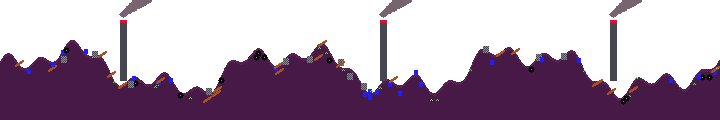
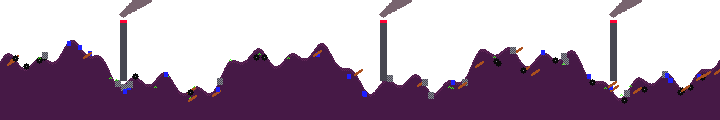
fix: ролик победы ведёт на кладбище (как по миру игры), вокруг помойка до горизонта

diff --git a/tools/gen_victory.py b/tools/gen_victory.py
@@ -74,11 +74,48 @@ def near():
     return a
 
 
+def road():
+    """Дорога от зрителя к кладбищу на горизонте (неподвижный слой поверх помойки)."""
+    c = Canvas(480, 130)
+    for y in range(130):
+        k = y / 129.0                       # 0 - горизонт, 1 - у ног
+        half = int(8 + k * 70)
+        x0, x1 = 240 - half, 240 + half
+        c.a[y, x0:x1] = (*DMUD, 255)
+        c.a[y, x0:x1][(np.arange(x1 - x0) + y) % 3 == 0] = (*MUD, 255)
+        if y % 12 < 6: c.a[y, 239:241] = (*YELLOW, 200)          # стёртая разметка
+        c.a[y, max(x0 - 1, 0)] = (*BLACK, 255); c.a[y, min(x1, 479)] = (*BLACK, 255)
+    for _ in range(40):                                          # мусор на обочине и лужи
+        y = int(R.integers(10, 128)); k = y / 129.0; half = int(8 + k * 70)
+        x = 240 + int(R.choice([-1, 1])) * int(half * R.uniform(0.3, 0.9))
+        c.ell(x, y, max(1, int(k * 4)), max(1, int(k * 2)), (60, 100, 160) if R.random() < 0.4 else BROWN)
+    return c.a
+
+
+def yard():
+    """Кладбище на горизонте: ограда, ворота-арка, кресты, фонарь - туда и идёт герой."""
+    c = Canvas(120, 48)
+    c.ell(60, 47, 62, 17, (60, 50, 45), dither=(80, 70, 60))   # холм-курган
+    for x in range(2, 118, 4): c.line(x, 26, x, 34, DGREY)       # ограда
+    c.line(0, 27, 119, 27, DGREY)
+    c.rect(50, 14, 52, 34, DGREY); c.rect(67, 14, 69, 34, DGREY); c.line(50, 13, 69, 13, DGREY, 2)   # ворота
+    c.pts([(55, 11), (58, 10), (61, 10), (64, 11)], DGREY)
+    for (x, y) in ((10, 20), (24, 18), (36, 22), (84, 21), (96, 17), (108, 22)):   # кресты
+        c.line(x, y, x, y + 10, (200, 190, 170)); c.line(x - 2, y + 3, x + 2, y + 3, (200, 190, 170))
+    c.rect(78, 8, 79, 30, GREY); c.ell(80, 8, 2, 1, YELLOW)     # фонарь
+    c.pts([(40, 6), (44, 4), (90, 5)], BLACK)                    # вороны
+    return c.a
+
+
 if __name__ == "__main__":
+    Image.fromarray(road()).save("assets/ui/victory_road.png")
+    Image.fromarray(yard()).save("assets/ui/victory_yard.png")
     Image.fromarray(sky()).save("assets/ui/victory_sky.png")
     Image.fromarray(far()).save("assets/ui/victory_far.png")
     Image.fromarray(near()).save("assets/ui/victory_near.png")
     s = Image.open("assets/ui/victory_sky.png").convert("RGBA")
     f = Image.open("assets/ui/victory_far.png"); n = Image.open("assets/ui/victory_near.png")
     s.paste(f, (-60, 120), f); s.paste(n, (-100, 140), n)
+    r = Image.open("assets/ui/victory_road.png"); y = Image.open("assets/ui/victory_yard.png")
+    s.paste(r, (0, 140), r); s.paste(y, (180, 106), y)
     s.save("tools/_preview/victory.png"); print("ok")

diff --git a/CHANGELOG.md b/CHANGELOG.md
@@ -11,7 +11,7 @@
 - Ачивки «ФУТБОЛИСТ» (100 пинков) и «АВТОГОЛ». Тест `tools/smoke/bottle_test.tscn` (BOTTLE OK), строки en.
 
 ## Ролик победы (идея 19)
-- Вошёл в ворота после победы - короткий ролик: герой уходит по дороге на кислотный закат, вокруг горы мусора до горизонта и трубы мусоросжигателя. «ТЫ ВЫБРАЛСЯ...» -> «...НА ПОМОЙКУ ПОБОЛЬШЕ.» -> «ТУТ ДАЖЕ ГОЛУБИ ЗЛЕЕ. УДАЧИ, ЛОХ.» Около 8 с, любая кнопка - пропустить, дальше кладбище.
+- Вошёл в ворота после победы - короткий ролик-мост «арена -> кладбище»: герой идёт по дороге к кладбищу на горизонте (ограда, кресты, ворота), а вокруг на кислотном закате - помойка до горизонта и трубы мусоросжигателя: арена была только её краем. «ТЫ ВЫБРАЛСЯ...» -> «...ОБРАТНО НА КЛАДБИЩЕ.» -> «А ВОКРУГ ПОМОЙКА ДО ГОРИЗОНТА. ЭТО ТОЛЬКО НАЧАЛО, ЛОХ.» Около 8 с, любая кнопка - пропустить, дальше герой входит на кладбище.
 - В настройках новый пункт «РОЛИК ПОБЕДЫ: ДА/НЕТ» (запоминается).
 - Арт `tools/gen_victory.py` (3 слоя параллакса), кадры `tools/smoke/victory_shots.tscn`, строки en.
 
